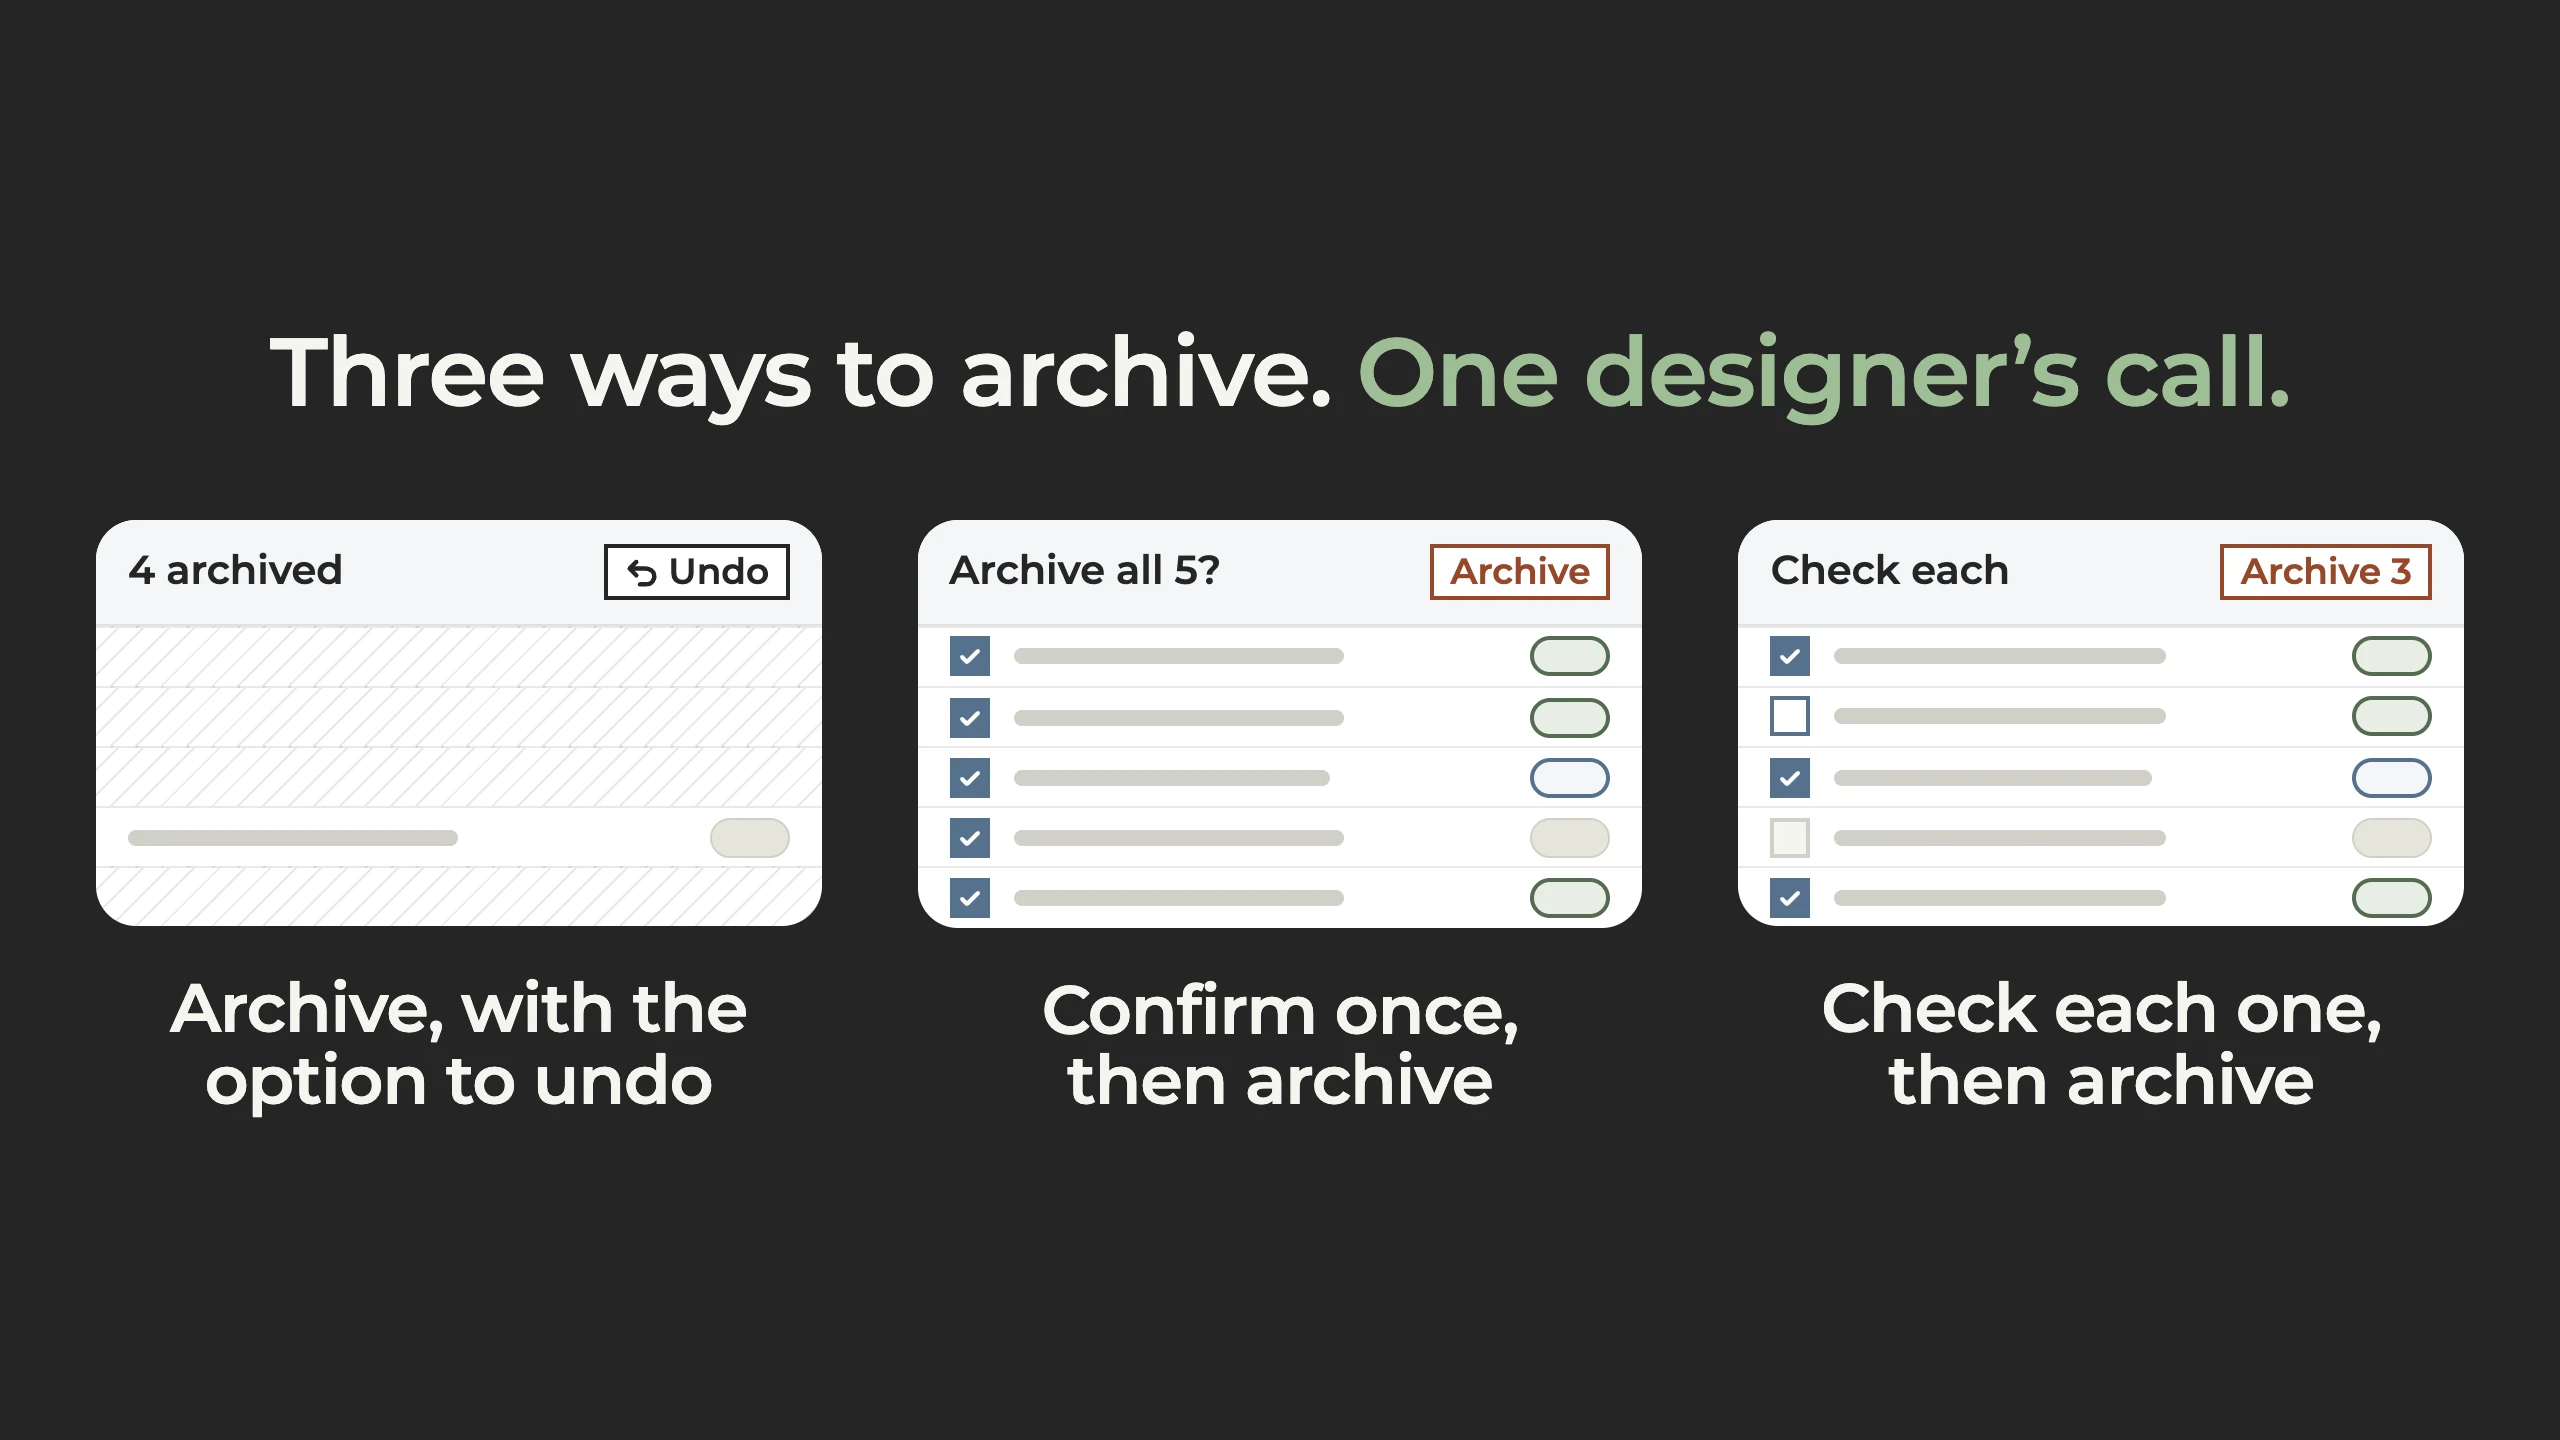
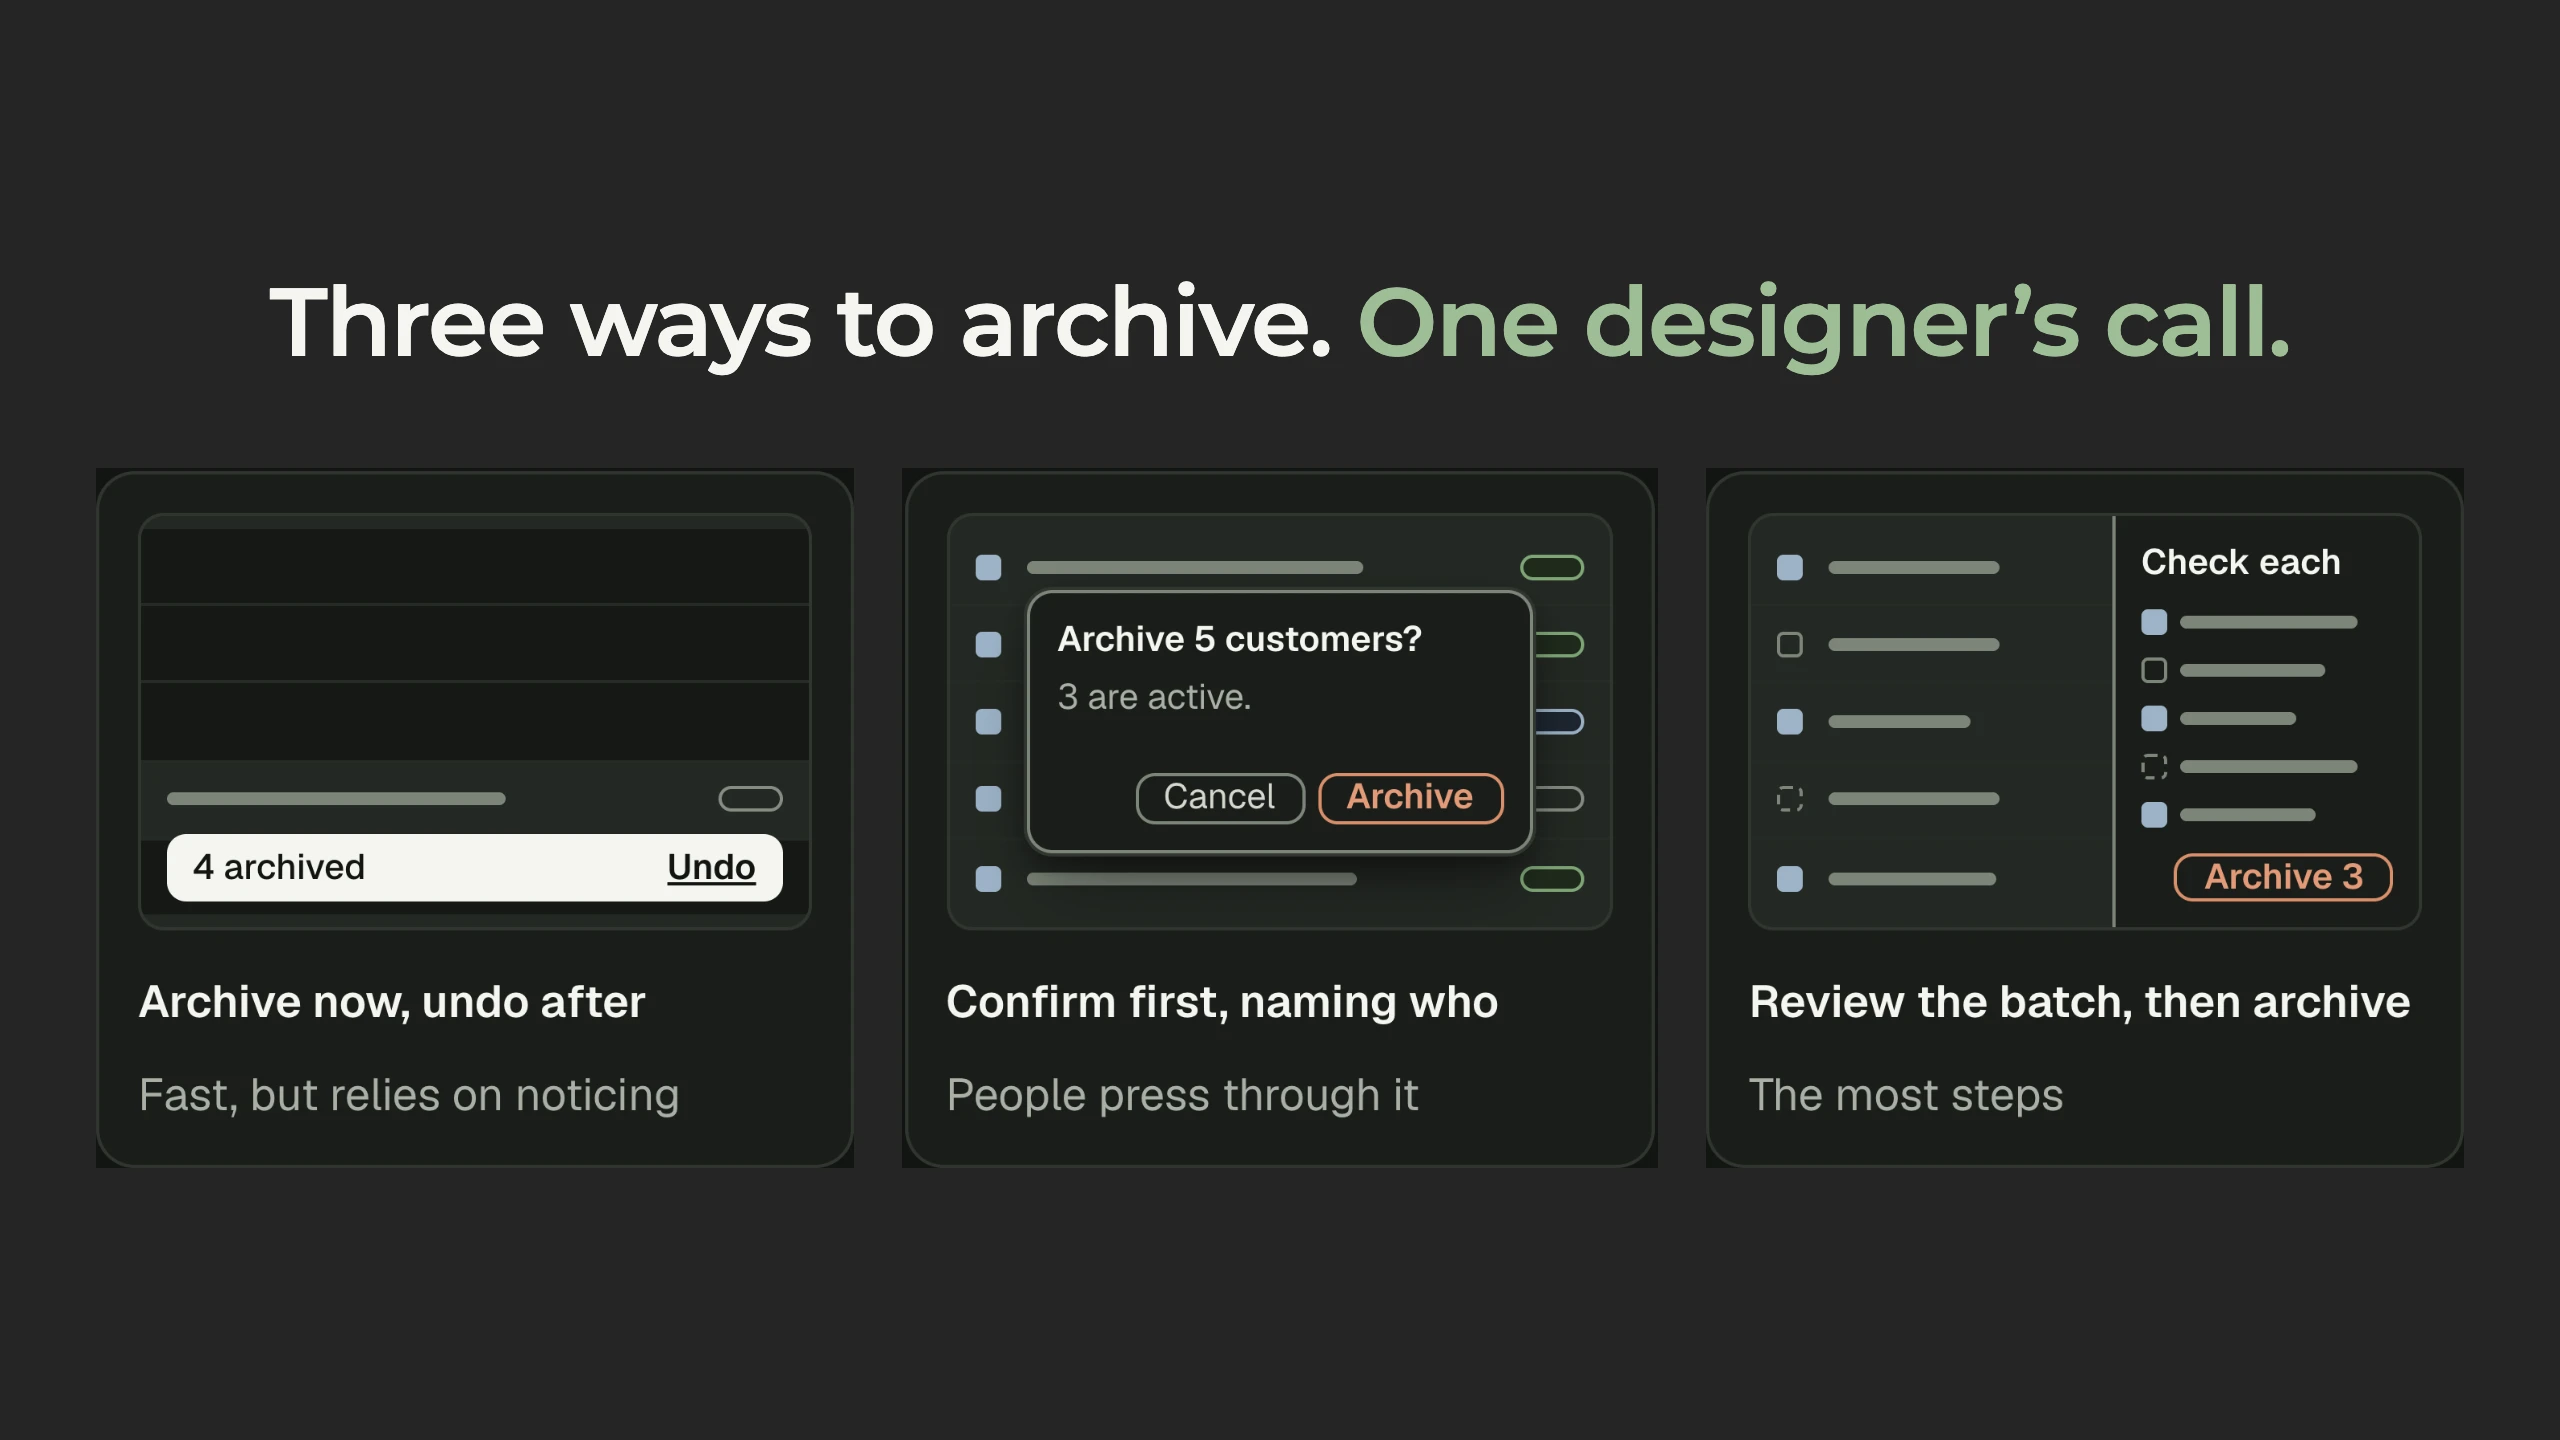
The Agent Review homepage card is step 3: cycle-card.mjs captures the three direction tiles from the prototype's Explore scene (agent-review#61) and sets them under the card's line, so the card and the case study's Explore row show the same screens, names and costs, dark in Night sage. The script re

diff --git a/index.html b/index.html
@@ -939,7 +939,7 @@
               </p>
             </div>
             <a class="case-thumb" href="lab/agent-review.html" aria-label="Read the Agent Review case study: three ways to archive, one designer&rsquo;s call">
-              <img src="img/lab/agent-review-cycle-card.webp?v=13" width="2560" height="1440" alt="" loading="lazy" decoding="async" />
+              <img src="img/lab/agent-review-cycle-card.webp?v=14" width="2560" height="1440" alt="" loading="lazy" decoding="async" />
             </a>
           </div>
         </div>
